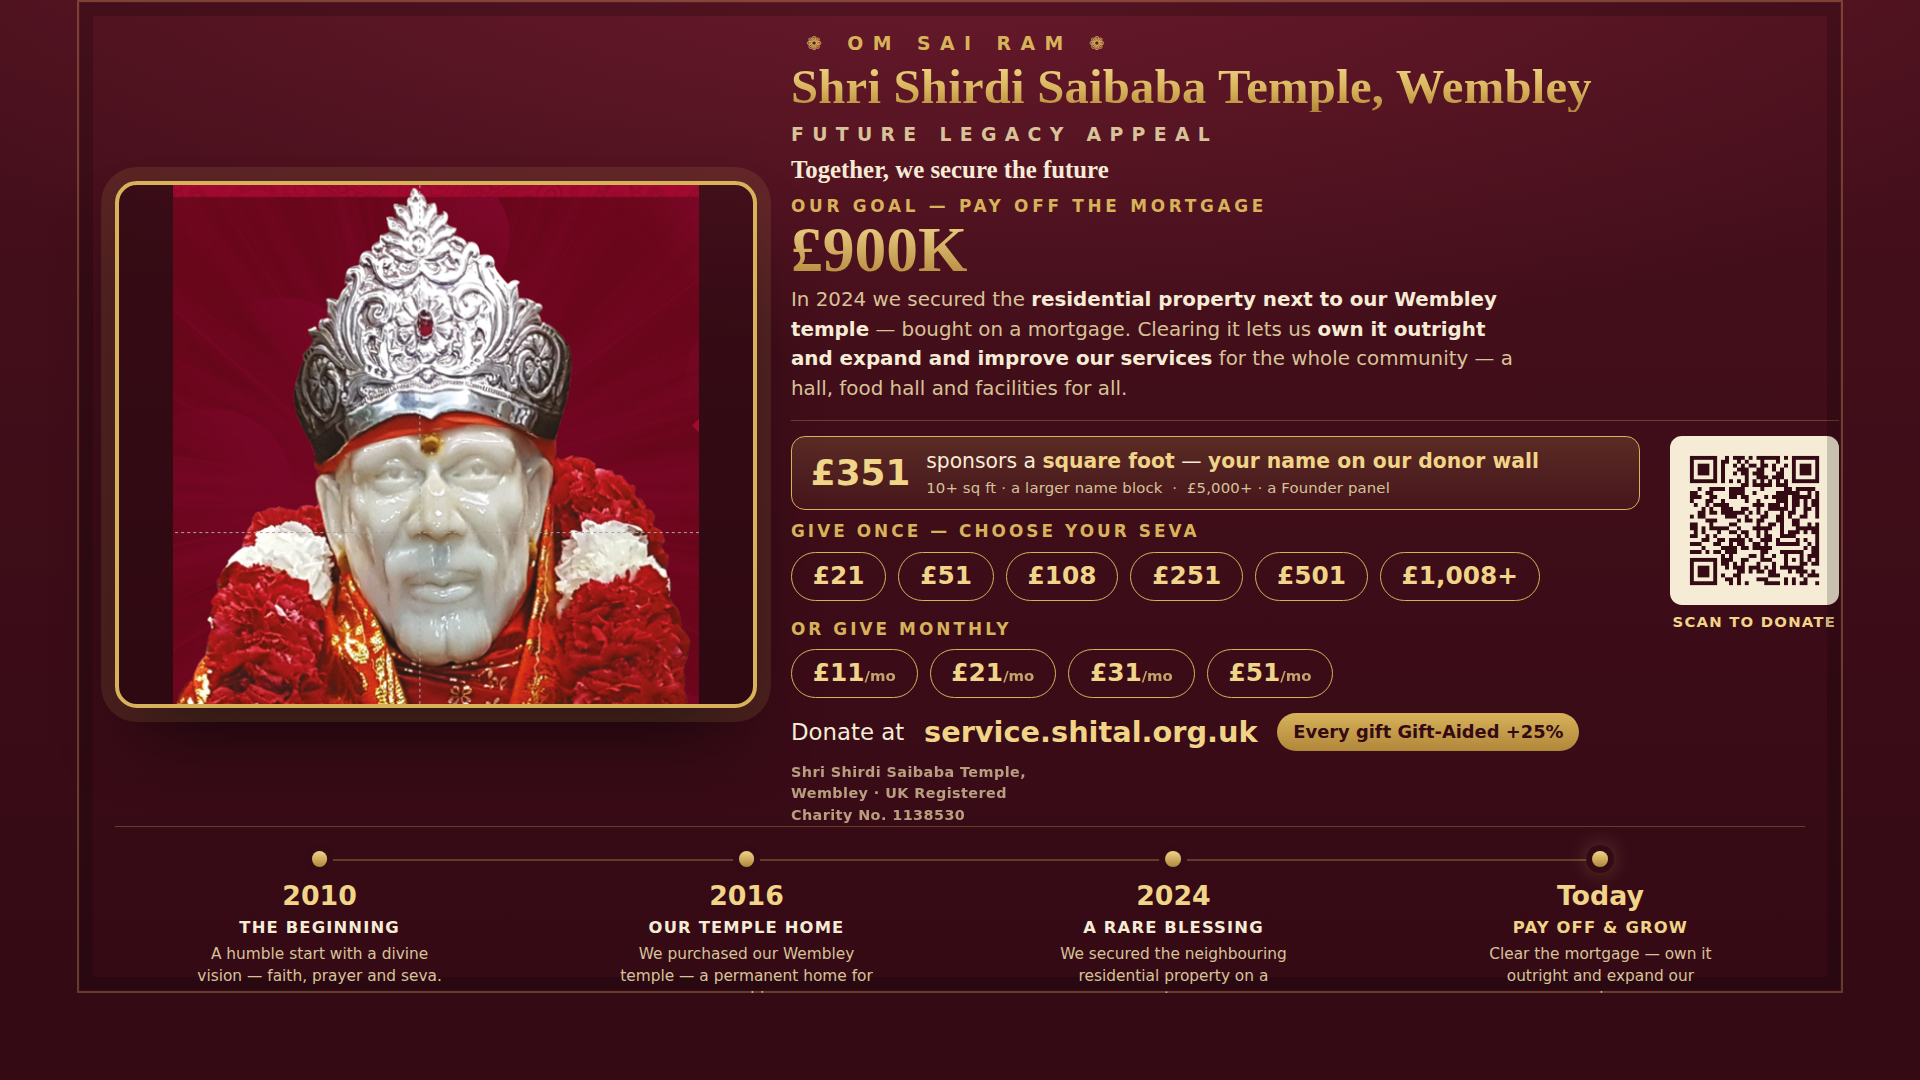
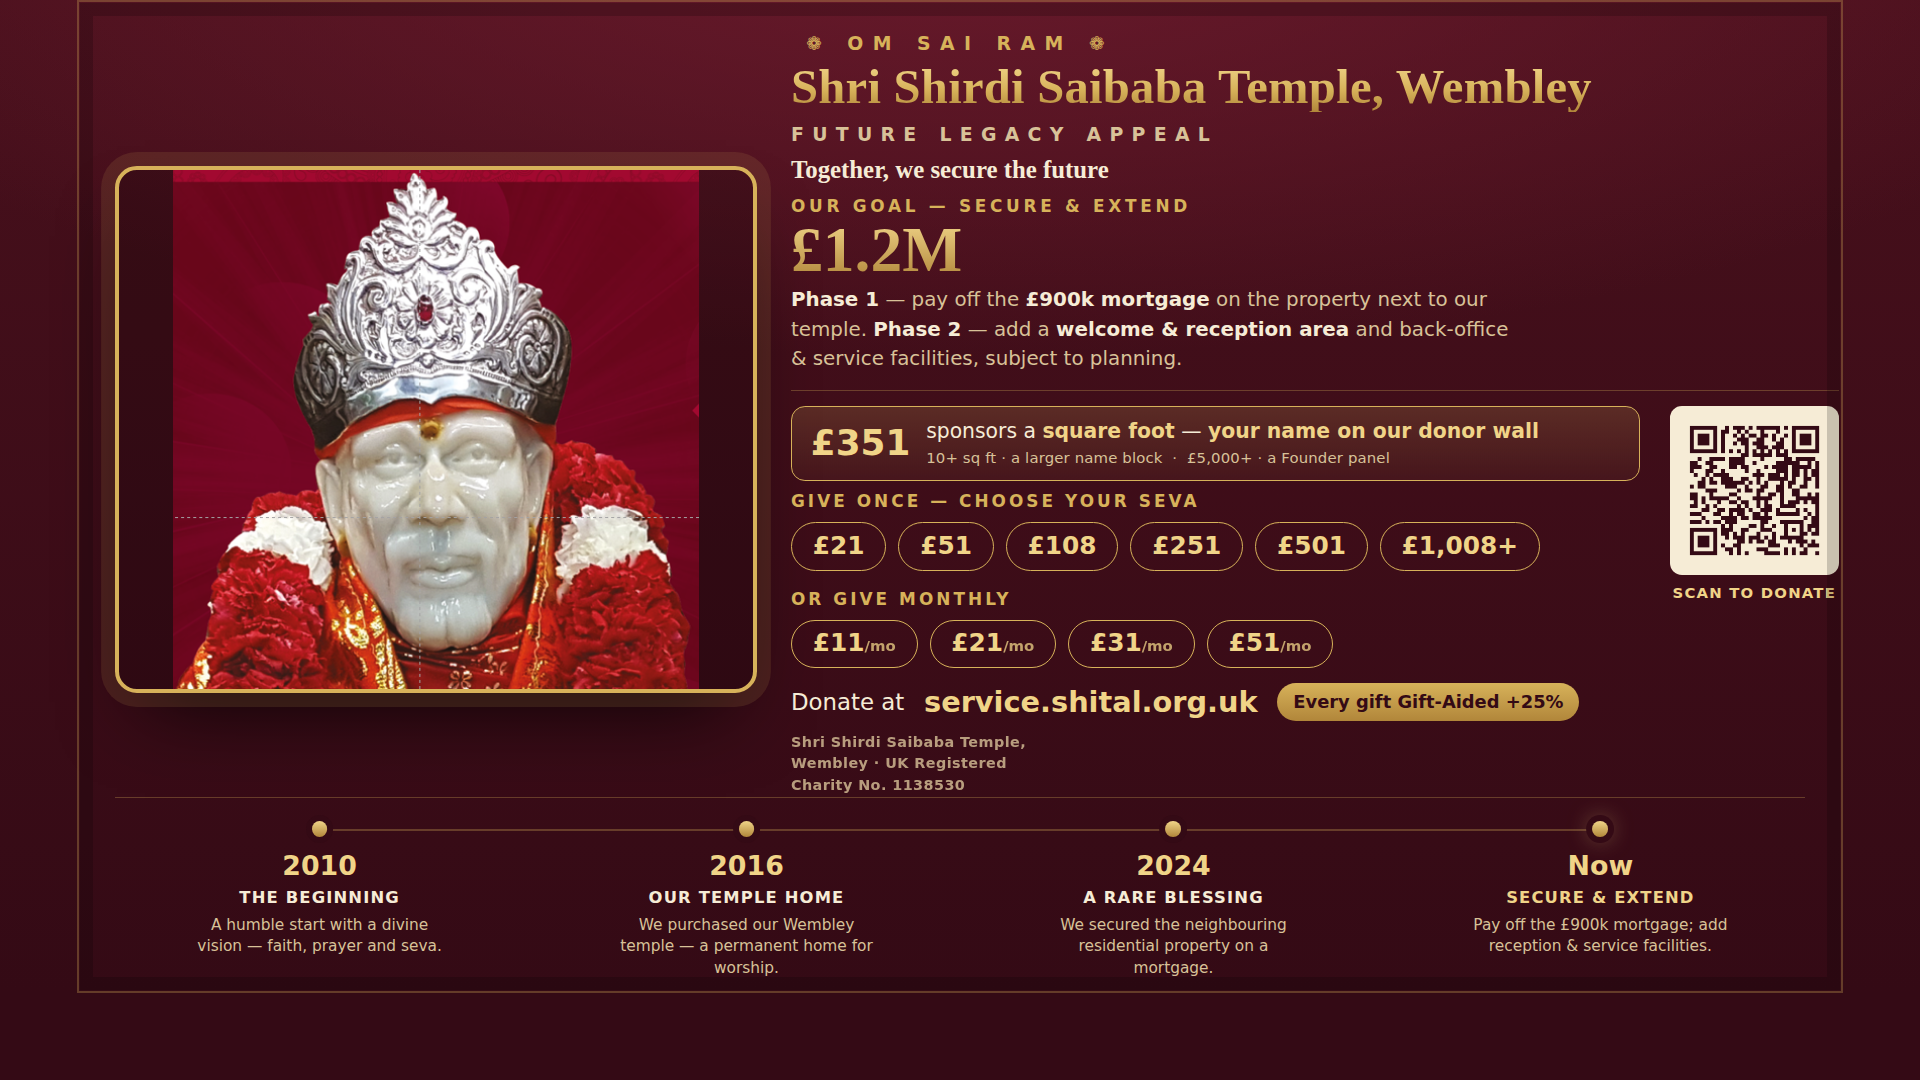
content(appeal-tv): posters → £1.2M Secure & Extend, corrected Phase 2
Update both TV posters (landscape + portrait) and the downloadable PNGs
to the combined £1.2M campaign: Phase 1 pay off the £900k mortgage,
Phase 2 add a welcome & reception area and back-office/service facilities
(subject to planning) — no community hall/food hall. Roadmap "Now" step
relabelled "Secure & extend".

Claude-Session: https://claude.ai/code/session_01NXH5bc4zKV2YCY2WwCAmLz

diff --git a/nginx/hub/appeal/tv/index.html b/nginx/hub/appeal/tv/index.html
@@ -150,9 +150,9 @@
         <div class="tagline">Together, we secure the future</div>
 
         <div class="goal">
-          <div class="k">Our goal — pay off the mortgage</div>
-          <div class="v num">£900K</div>
-          <div class="desc sans">In 2024 we secured the <strong>residential property next to our Wembley temple</strong> — bought on a mortgage. Clearing it lets us <strong>own it outright and expand and improve our services</strong> for the whole community — a hall, food hall and facilities for all.</div>
+          <div class="k">Our goal — secure &amp; extend</div>
+          <div class="v num">£1.2M</div>
+          <div class="desc sans"><strong>Phase 1</strong> — pay off the <strong>£900k mortgage</strong> on the property next to our temple. <strong>Phase 2</strong> — add a <strong>welcome &amp; reception area</strong> and back-office &amp; service facilities, subject to planning.</div>
         </div>
 
         <div class="give sans">
@@ -182,7 +182,7 @@
       <div class="step"><span class="dot"></span><div class="yr num">2010</div><div class="lbl">The beginning</div><div class="d">A humble start with a divine vision — faith, prayer and seva.</div></div>
       <div class="step"><span class="dot"></span><div class="yr num">2016</div><div class="lbl">Our temple home</div><div class="d">We purchased our Wembley temple — a permanent home for worship.</div></div>
       <div class="step"><span class="dot"></span><div class="yr num">2024</div><div class="lbl">A rare blessing</div><div class="d">We secured the neighbouring residential property on a mortgage.</div></div>
-      <div class="step now"><span class="dot"></span><div class="yr num">Today</div><div class="lbl">Pay off &amp; grow</div><div class="d">Clear the mortgage — own it outright and expand our services.</div></div>
+      <div class="step now"><span class="dot"></span><div class="yr num">Now</div><div class="lbl">Secure &amp; extend</div><div class="d">Pay off the £900k mortgage; add reception &amp; service facilities.</div></div>
     </div>
   </div>
 </body>

diff --git a/nginx/hub/appeal/tv/portrait/index.html b/nginx/hub/appeal/tv/portrait/index.html
@@ -112,9 +112,9 @@
     <div class="tagline">Together, we secure the future</div>
 
     <div class="goal">
-      <div class="k">Our goal — pay off the mortgage</div>
-      <div class="v num">£900K</div>
-      <div class="desc sans">Bought on a mortgage in 2024. Clearing it lets us <strong>own it outright and expand our services</strong> — a hall, food hall and facilities for all.</div>
+      <div class="k">Our goal — secure &amp; extend</div>
+      <div class="v num">£1.2M</div>
+      <div class="desc sans"><strong>Phase 1</strong> — pay off the <strong>£900k mortgage</strong>. <strong>Phase 2</strong> — add a welcome &amp; reception area and service facilities, subject to planning.</div>
     </div>
 
     <div class="sqft sans"><span class="sqft-amt num">£351</span><div class="sqft-txt">sponsors a <strong>square foot</strong> — <strong>your name on our donor wall</strong><div class="wall-tiers">10+ sq ft · larger name block · £5,000+ · Founder panel</div></div></div>
@@ -142,7 +142,7 @@
       <div class="step"><span class="dot"></span><div class="yr num">2010</div><div class="lbl">The beginning</div></div>
       <div class="step"><span class="dot"></span><div class="yr num">2016</div><div class="lbl">Our temple home</div></div>
       <div class="step"><span class="dot"></span><div class="yr num">2024</div><div class="lbl">A rare blessing</div></div>
-      <div class="step now"><span class="dot"></span><div class="yr num">Today</div><div class="lbl">Pay off &amp; grow</div></div>
+      <div class="step now"><span class="dot"></span><div class="yr num">Now</div><div class="lbl">Secure &amp; extend</div></div>
     </div>
 
     <div class="reg sans">Shri Shirdi Saibaba Temple, Wembley · UK Registered Charity No. 1138530</div>
